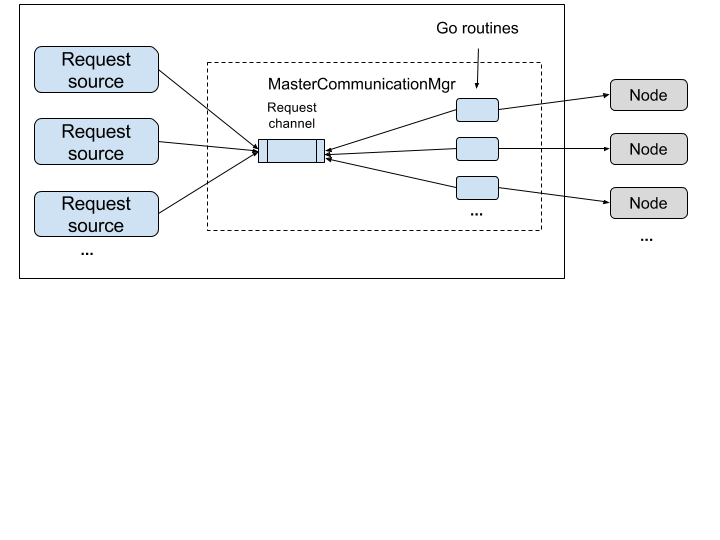
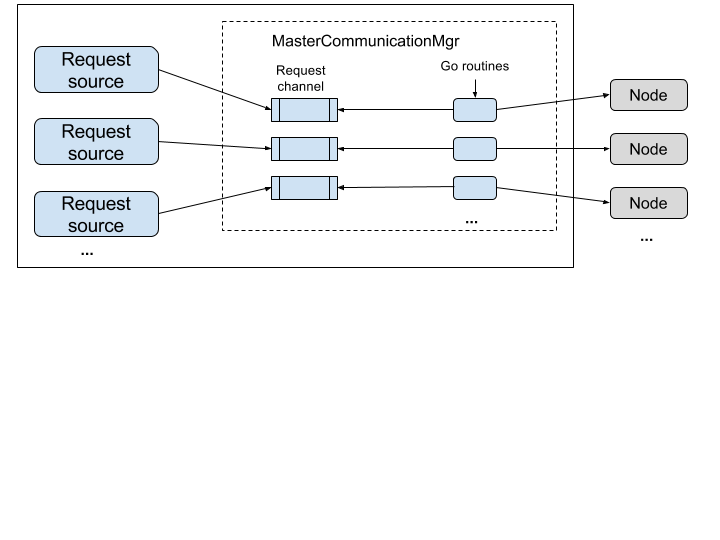
Master design take 1 	new file:   MASTER.md 	modified:   MASTER_FANOUT.png

diff --git a/doc/MASTER.md b/doc/MASTER.md
@@ -1,0 +1,25 @@
+## Master's key functionalities
+1. Manipulate metadata by communicating to metadata service (etcd).
+2. Caching all metadata in memory (populate from metadata service when starts up. And sync all metadata to other data nodes in cluster.
+3. Subscribe metadata service's session expiration, data change notifications. Do relection, refresh the in-memory metadata cache according to subscriptions and re-sync to other data nodes in cluster.
+
+
+## High level arch
+There are several componenets in high level
+
+1. meta.Client which reads/writes metadata from/to metadata service and validate in-memory metadata cache.
+2. Etcd event subscription and correpsonding event handling state machine.
+3. Master inter-node communication component which sends metadata sync etc requests to other data nodes in the cluster.
+4. Intrnal RPC server which accepts other nodes' requests. Internal RPC server is common to master and non-master nodes.
+
+![Master design](MASTER.png)
+
+## Etcd events handling
+Key design idea here is all events are enqueued and then dequeued and handled by a single gorouine to simplify the event ordering handling. So event handler should be implemented as fast/light as possible to avoid blocking the event dequeue/handling go routine.
+
+![Master event handler](MASTER_EVENT_HANDLER.png)
+
+## Master -> Other nodes
+Key design idea here is introducing a CommunicationMgr in master. Clients can send requests to CommunicationMgr if clients would like to communicate to other data nodes. Internally CommunicationMgr will enqueue the requests to the corresponding internal message queue and a dedicated goroutine which waits for the message queue will dequeue the request and then invoke internal RPC to communicate remote data node.
+
+![Master to other data nodes](MASTER_FANOUT.png)
